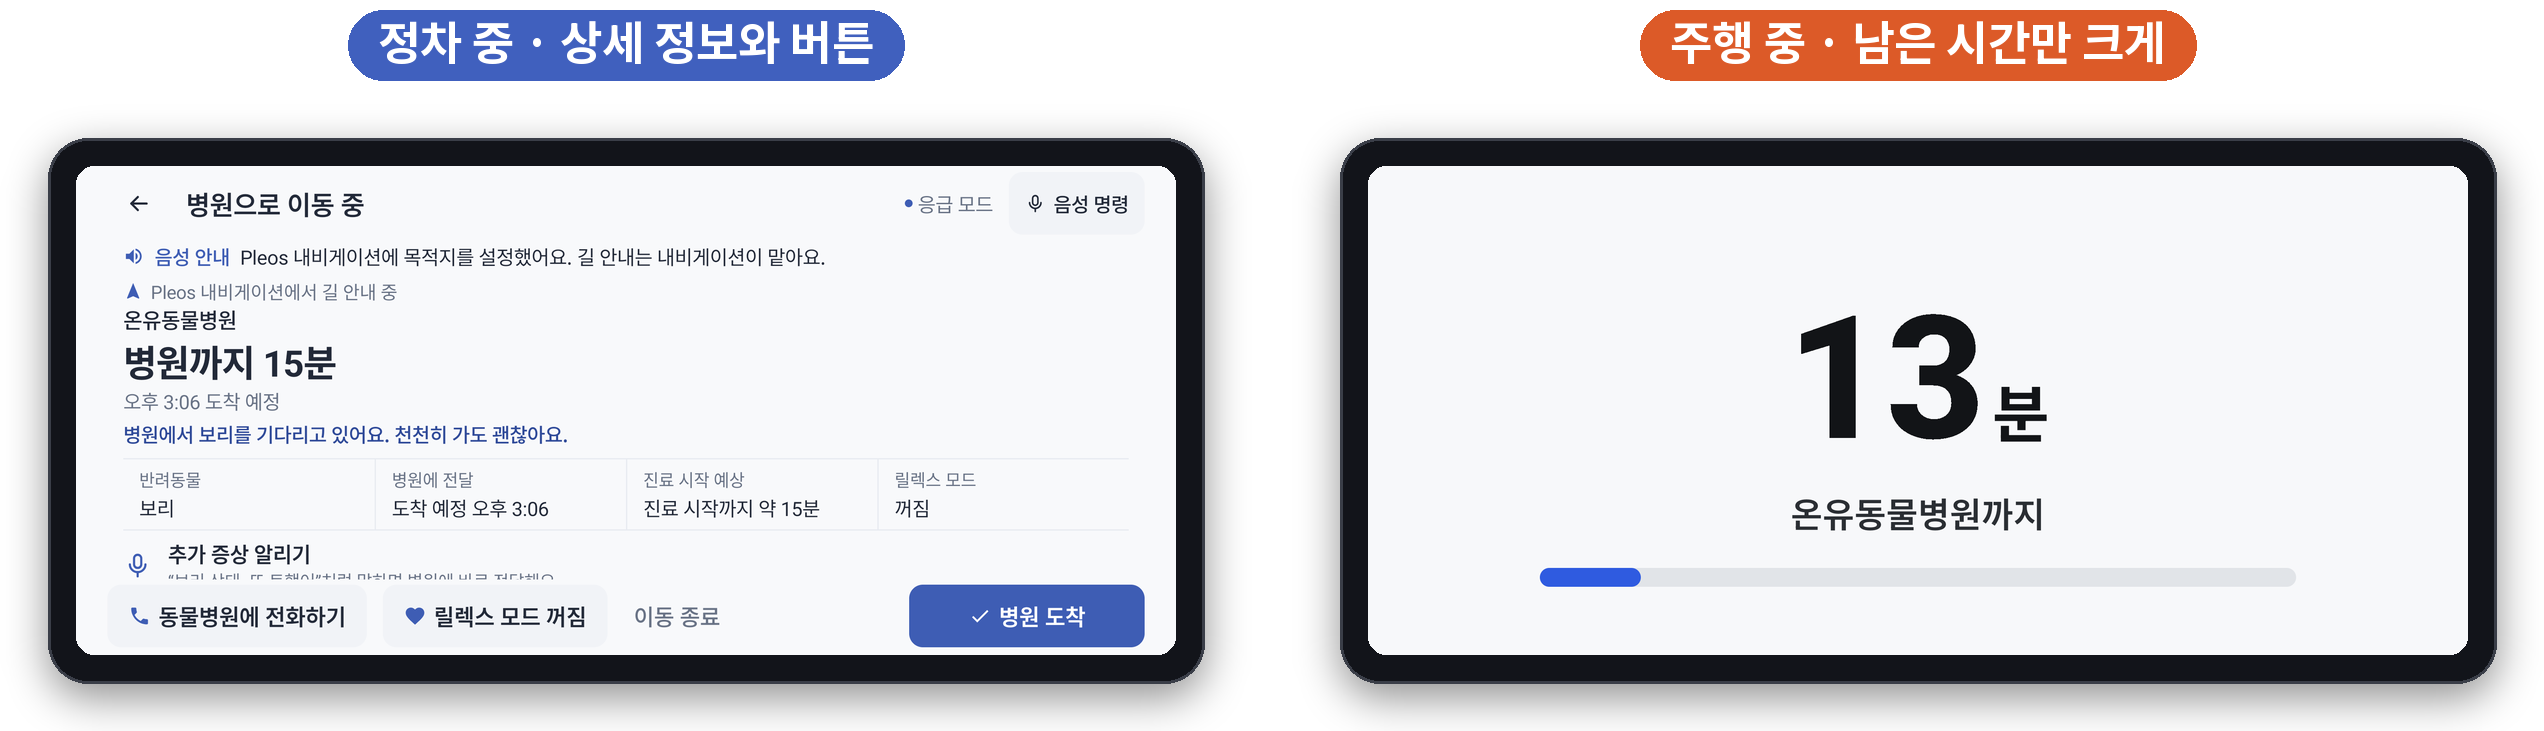
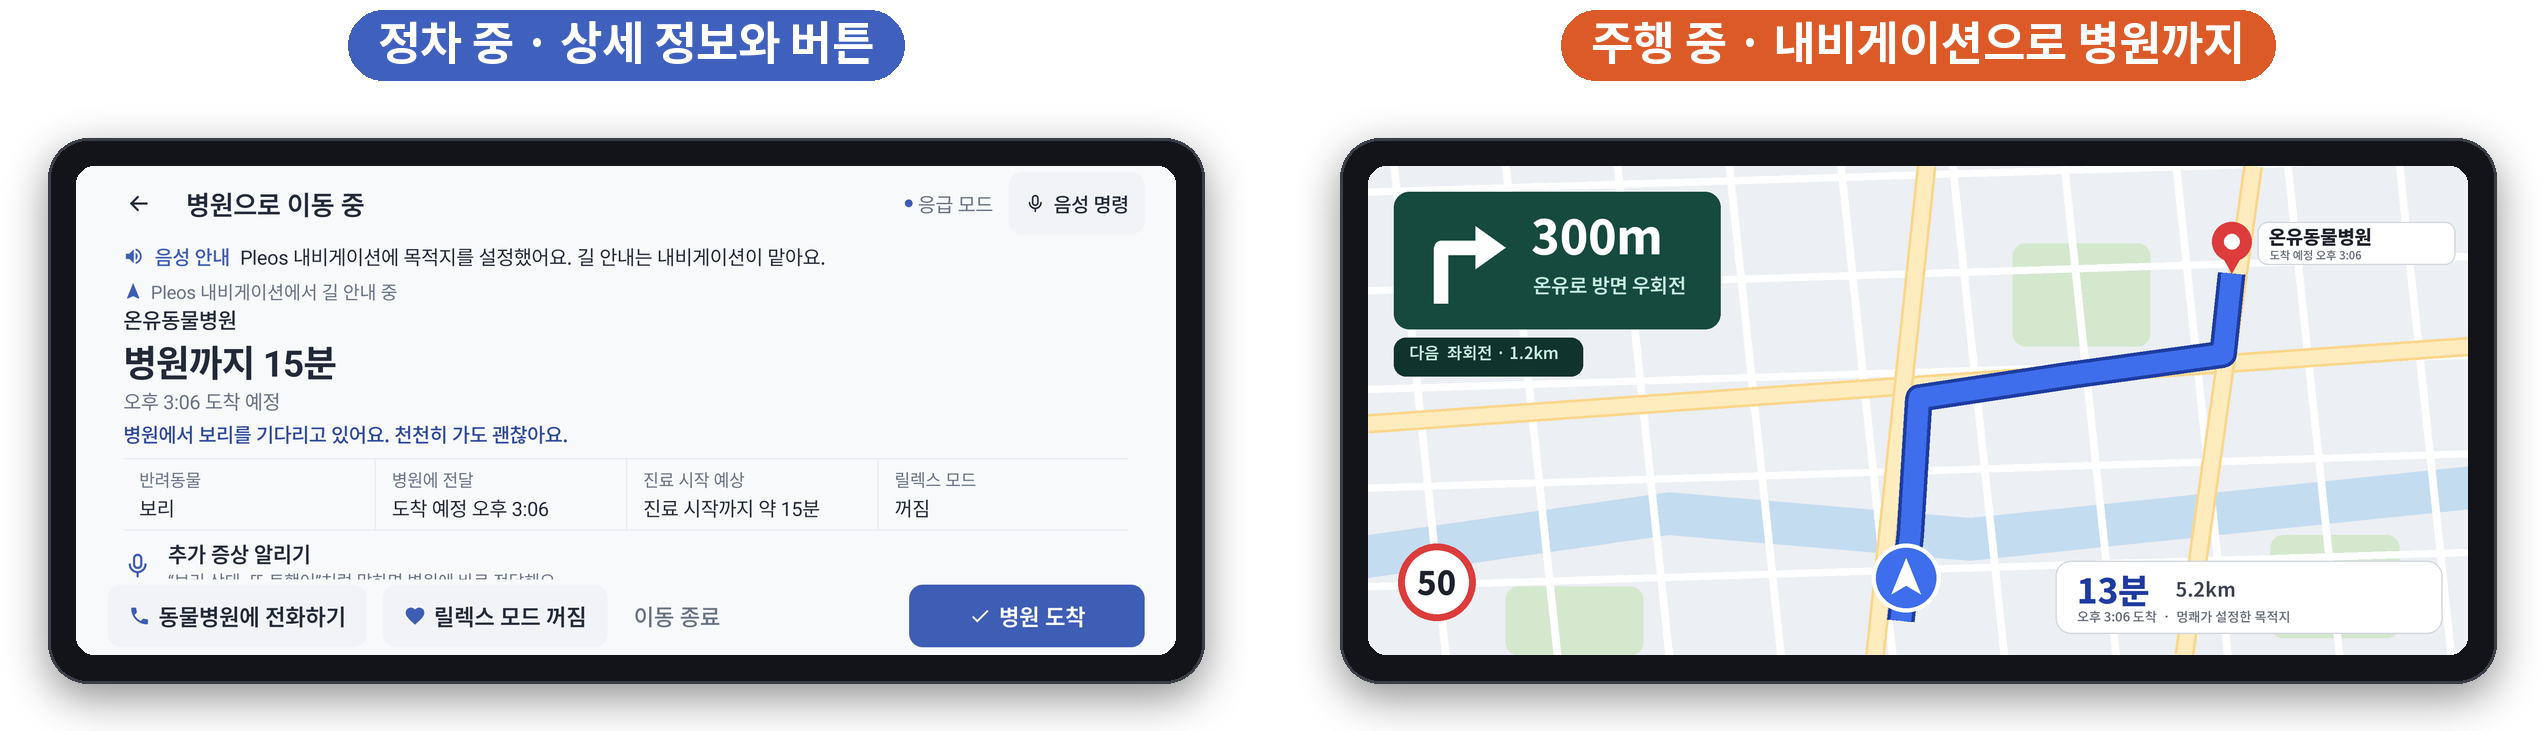
docs(readme): 주행 중 비교 화면을 동물병원 길 안내 화면으로 바꿈

Changed region(s): [[0.5279, 0.2107, 0.9937, 0.9029], [0.59, 0.0, 0.9006, 0.1204]]

diff --git a/README.md b/README.md
@@ -65,7 +65,7 @@
 
 ## 차량이라서 가능한 것
 
-<p align="center"><img src="docs/readme/parked-vs-driving.png" alt="정차 중과 주행 중 화면 비교" width="900"></p>
+<p align="center"><img src="docs/readme/parked-vs-driving.png" alt="정차 중 멍쾌 화면과 주행 중 동물병원까지 길 안내 화면" width="900"></p>
 
 | Pleos SDK | 멍쾌에서 하는 일 |
 |---|---|
